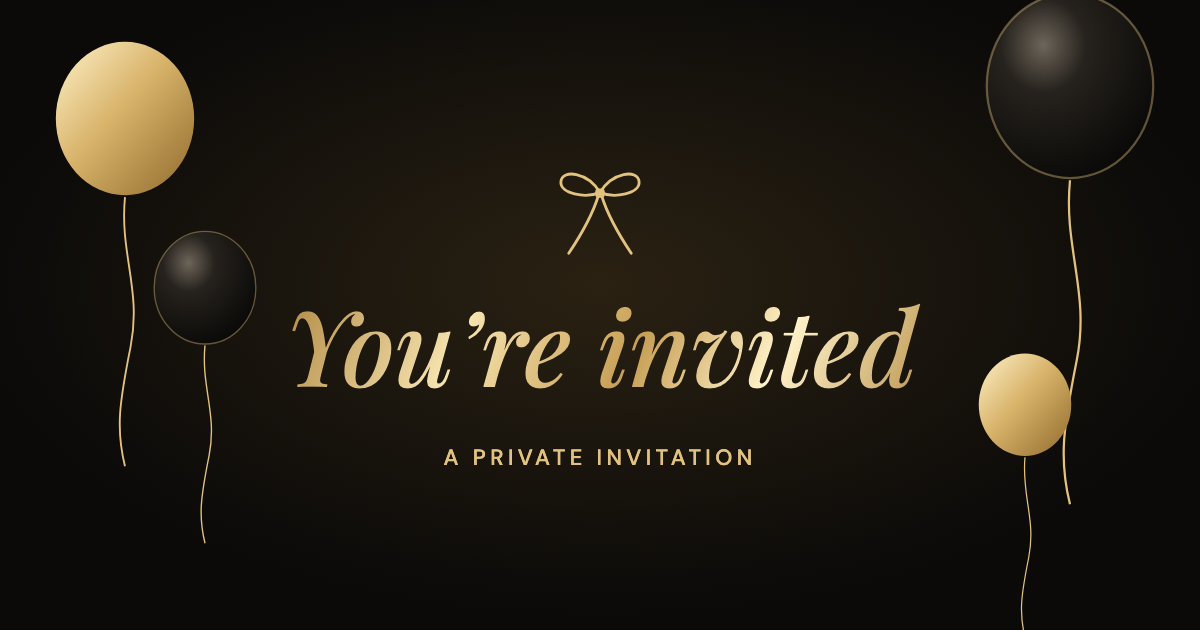
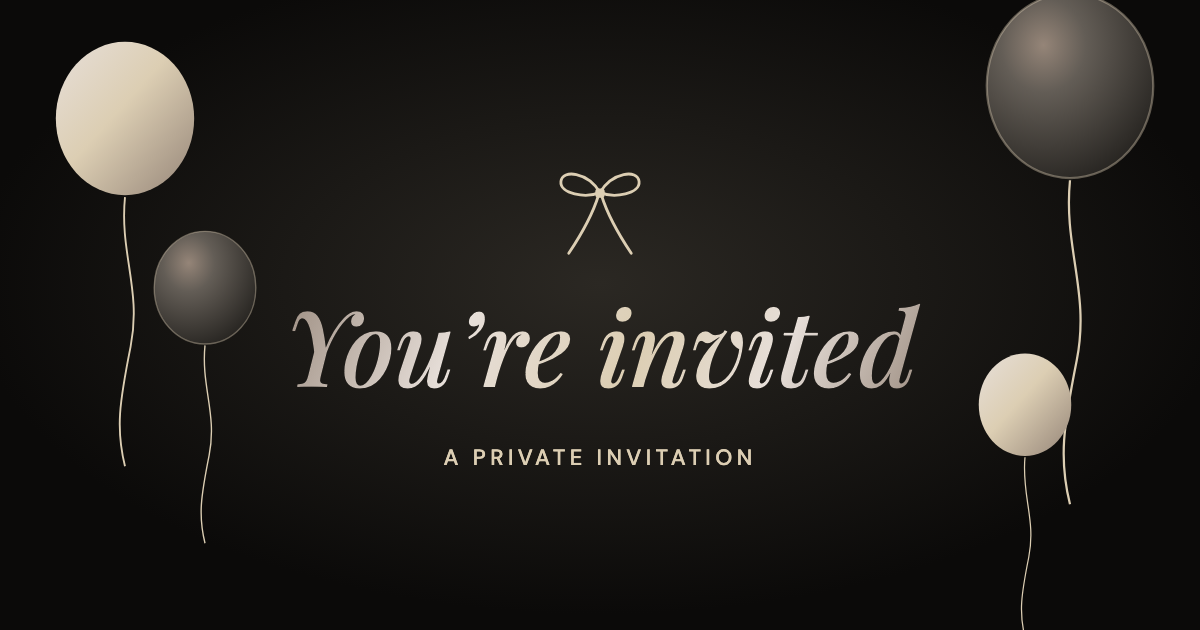
Replace gold with the Quiet Luxury palette

diff --git a/styles.css b/styles.css
@@ -1,14 +1,15 @@
-/* Black tie birthday. To change the palette or typefaces, edit these tokens. */
+/* Quiet Luxury palette on near-black: Roasted Cashew #958578, Frozen Dew #dcceb3,
+   Dark Night #635d56, Temple Grey #cbc3bf, Snowfall #e7dfd9. Edit these tokens to change it. */
 :root{
   --bg:#0b0a09;--paper:#14110d;
-  --ink:#f8f1e1;--text:#eee6d4;--muted:#cfc5b0;
-  --gold:#e2c27f;--gold-foil:linear-gradient(115deg,#a97f38 0%,#f6e3ae 28%,#c79f55 52%,#fff2c9 72%,#b58c44 100%);--line:rgba(226,194,127,.28);
+  --ink:#e7dfd9;--text:#e7dfd9;--muted:#cbc3bf;
+  --accent:#dcceb3;--foil:linear-gradient(115deg,#958578 0%,#e7dfd9 28%,#dcceb3 52%,#e7dfd9 72%,#958578 100%);--line:rgba(220,206,179,.28);
   --danger:#ffa394;
   --sans:'DM Sans',system-ui,-apple-system,sans-serif;
   --display:'Playfair Display',Georgia,'Times New Roman',serif;
 }
 *,*::before,*::after{box-sizing:border-box}
-body{margin:0;min-width:320px;min-height:100vh;min-height:100svh;background:radial-gradient(ellipse 110% 55% at 50% 38%,#241c10 0%,transparent 72%) fixed,var(--bg);color:var(--text);font-family:var(--sans);font-size:17px;font-weight:400;-webkit-font-smoothing:antialiased;text-rendering:optimizeLegibility;overflow-x:hidden}
+body{margin:0;min-width:320px;min-height:100vh;min-height:100svh;background:radial-gradient(ellipse 110% 55% at 50% 38%,#2b2823 0%,transparent 72%) fixed,var(--bg);color:var(--text);font-family:var(--sans);font-size:17px;font-weight:400;-webkit-font-smoothing:antialiased;text-rendering:optimizeLegibility;overflow-x:hidden}
 button,input{font:inherit;color:inherit}
 button{cursor:pointer}
 button:disabled{cursor:wait;opacity:.7}
@@ -26,37 +27,37 @@ a:focus-visible,button:focus-visible{outline:1px solid var(--ink);outline-offset
 .balloon--three{width:88px;bottom:-11%;right:-40px;animation-delay:-5s}
 .balloon--four{width:76px;bottom:-4%;left:-44px;animation-delay:-7s}
 .sparkles{position:fixed;inset:0;z-index:-1;pointer-events:none}
-.sparkles i{position:absolute;width:var(--s);height:var(--s);background:var(--gold);clip-path:polygon(50% 0,58% 42%,100% 50%,58% 58%,50% 100%,42% 58%,0 50%,42% 42%);animation:twinkle 3.6s ease-in-out infinite}
+.sparkles i{position:absolute;width:var(--s);height:var(--s);background:var(--accent);clip-path:polygon(50% 0,58% 42%,100% 50%,58% 58%,50% 100%,42% 58%,0 50%,42% 42%);animation:twinkle 3.6s ease-in-out infinite}
 
 /* Shell */
 .app-shell{max-width:520px;min-height:100vh;min-height:100svh;margin:0 auto;padding:0 28px;display:flex;flex-direction:column}
 .app-header{flex-shrink:0;display:flex;align-items:flex-end;gap:16px;padding-top:calc(14px + env(safe-area-inset-top))}
 .progress-wrap{flex:1;padding-bottom:12px}
-.progress-meta{display:flex;justify-content:space-between;margin-bottom:9px;color:var(--gold);font-size:13px;font-weight:500;letter-spacing:.1em;text-transform:uppercase}
+.progress-meta{display:flex;justify-content:space-between;margin-bottom:9px;color:var(--accent);font-size:13px;font-weight:500;letter-spacing:.1em;text-transform:uppercase}
 .progress-muted,.progress-meta #progressTitle{color:var(--muted)}
 .progress-track{height:1px;background:var(--line)}
-.progress-fill{height:1px;background:var(--gold);box-shadow:0 0 8px rgba(226,194,127,.8);transition:width .7s cubic-bezier(.22,1,.36,1)}
-.music-button{width:44px;height:44px;margin-right:-12px;display:grid;place-items:center;background:none;border:0;color:var(--gold);transition:color .3s}
-.music-button:hover,.music-button[aria-pressed=true]{color:#fff2c9}
+.progress-fill{height:1px;background:var(--accent);box-shadow:0 0 8px rgba(220,206,179,.8);transition:width .7s cubic-bezier(.22,1,.36,1)}
+.music-button{width:44px;height:44px;margin-right:-12px;display:grid;place-items:center;background:none;border:0;color:var(--accent);transition:color .3s}
+.music-button:hover,.music-button[aria-pressed=true]{color:#e7dfd9}
 .music-button[aria-pressed=true] svg{animation:breathe 2.4s ease-in-out infinite}
 main{flex:1;display:flex;flex-direction:column}
 
 /* Screens */
 .screen{flex:1;display:flex;flex-direction:column;align-items:center;text-align:center;padding:30px 0 20px;animation:screenIn .9s cubic-bezier(.2,.7,.2,1) both}
-.eyebrow{margin:0;color:var(--gold);font-size:13px;font-weight:500;letter-spacing:.14em;text-transform:uppercase;line-height:1.7}
+.eyebrow{margin:0;color:var(--accent);font-size:13px;font-weight:500;letter-spacing:.14em;text-transform:uppercase;line-height:1.7}
 .hero-title,.section-title,.final-title,.reveal-headline{font-family:var(--display);color:var(--ink);font-weight:500}
 .hero-title em,.section-title em,.final-title em,.reveal-headline em{display:block;font-weight:500}
 .hero-title{font-size:clamp(35px,9.6vw,50px);line-height:1.16;margin:20px 0 0;text-wrap:balance}
 
 /* Envelope */
 .envelope-scene{flex:1;width:100%;min-height:270px;display:grid;place-items:center;perspective:1000px}
-.envelope{width:256px;height:168px;position:relative;margin-top:44px;filter:drop-shadow(0 0 34px rgba(226,194,127,.32));animation:envelopeFloat 6s ease-in-out infinite}
-.envelope-back{position:absolute;inset:0;background:var(--gold-foil)}
-.envelope-letter{position:absolute;z-index:2;top:8px;left:12px;right:12px;height:150px;background:#fffaf0;padding-top:20px;color:#141210;transition:transform 1s .25s cubic-bezier(.2,.7,.2,1)}
+.envelope{width:256px;height:168px;position:relative;margin-top:44px;filter:drop-shadow(0 0 34px rgba(220,206,179,.32));animation:envelopeFloat 6s ease-in-out infinite}
+.envelope-back{position:absolute;inset:0;background:var(--foil)}
+.envelope-letter{position:absolute;z-index:2;top:8px;left:12px;right:12px;height:150px;background:#efe9e3;padding-top:20px;color:#141210;transition:transform 1s .25s cubic-bezier(.2,.7,.2,1)}
 .envelope-letter span{font-family:var(--display);font-style:italic;font-weight:500;font-size:20px}
-.envelope-front{position:absolute;inset:0;z-index:4;background:linear-gradient(170deg,#f8f1e1,#e8dcc2);clip-path:polygon(0 0,50% 56%,100% 0,100% 100%,0 100%)}
-.envelope-front::after{content:'';position:absolute;inset:0;background:linear-gradient(0deg,#fbf6ea,#efe5cf);clip-path:polygon(0 100%,50% 46%,100% 100%)}
-.envelope-flap{position:absolute;inset:0;z-index:6;background:linear-gradient(180deg,#fffaf0,#eadfc6);filter:drop-shadow(0 2px 2px rgba(90,64,20,.35));clip-path:polygon(0 0,100% 0,50% 62%);transform-origin:50% 0;transition:transform .8s ease}
+.envelope-front{position:absolute;inset:0;z-index:4;background:linear-gradient(170deg,#e7dfd9,#cbc3bf);clip-path:polygon(0 0,50% 56%,100% 0,100% 100%,0 100%)}
+.envelope-front::after{content:'';position:absolute;inset:0;background:linear-gradient(0deg,#efe9e3,#e7dfd9);clip-path:polygon(0 100%,50% 46%,100% 100%)}
+.envelope-flap{position:absolute;inset:0;z-index:6;background:linear-gradient(180deg,#efe9e3,#cbc3bf);filter:drop-shadow(0 2px 2px rgba(99,93,86,.4));clip-path:polygon(0 0,100% 0,50% 62%);transform-origin:50% 0;transition:transform .8s ease}
 .wax-seal{position:absolute;z-index:7;left:calc(50% - 39px);top:64px;width:78px;height:78px;color:#141210;transition:opacity .35s}
 .envelope-scene.is-opening .envelope{animation:none}
 .envelope-scene.is-opening .envelope-flap{transform:rotateX(180deg);z-index:1}
@@ -65,23 +66,23 @@ main{flex:1;display:flex;flex-direction:column}
 
 /* Buttons */
 .button{display:inline-flex;align-items:center;justify-content:center;gap:12px;min-height:54px;width:100%;max-width:320px;padding:16px 26px;border-radius:0;font-size:15px;font-weight:600;letter-spacing:.1em;text-transform:uppercase;text-decoration:none;line-height:1.3;transition:background .35s,color .35s}
-.button--primary{color:#141210;background:var(--gold-foil);background-size:220% 100%;border:0;animation:foilShift 7s ease-in-out infinite alternate;box-shadow:0 0 24px rgba(226,194,127,.28)}
-.button--primary:hover:not(:disabled){box-shadow:0 0 34px rgba(226,194,127,.55)}
-.text-link{display:inline-flex;align-items:center;min-height:44px;margin-top:6px;font-size:16px;color:var(--gold);text-decoration:underline;text-decoration-thickness:1px;text-underline-offset:5px}
+.button--primary{color:#141210;background:var(--foil);background-size:220% 100%;border:0;animation:foilShift 7s ease-in-out infinite alternate;box-shadow:0 0 24px rgba(220,206,179,.28)}
+.button--primary:hover:not(:disabled){box-shadow:0 0 34px rgba(220,206,179,.55)}
+.text-link{display:inline-flex;align-items:center;min-height:44px;margin-top:6px;font-size:16px;color:var(--accent);text-decoration:underline;text-decoration-thickness:1px;text-underline-offset:5px}
 
 /* Reveal */
 .reveal-art{position:relative;margin-top:4px}
-.art-bow{width:48px;height:48px;margin:0 auto 2px;color:var(--gold);animation:fadeIn 1.2s .7s both}
-.age-numeral{display:block;font-family:var(--display);font-style:italic;font-size:clamp(120px,36vw,170px);font-weight:500;line-height:1.08;color:transparent;background:var(--gold-foil);background-size:220% 100%;-webkit-background-clip:text;background-clip:text;font-variant-numeric:lining-nums;filter:drop-shadow(0 0 20px rgba(226,194,127,.38));animation:numeralIn 1.4s cubic-bezier(.2,.7,.2,1) both,foilShift 6s ease-in-out infinite alternate}
-.glint{position:absolute;width:var(--s);height:var(--s);background:#fff2c9;clip-path:polygon(50% 0,58% 42%,100% 50%,58% 58%,50% 100%,42% 58%,0 50%,42% 42%);animation:twinkle 2.4s ease-in-out infinite}
-.photo-frame{margin:0;width:186px;height:232px;padding:2px;border-radius:93px 93px 6px 6px;background:var(--gold-foil);box-shadow:0 0 34px rgba(226,194,127,.35);animation:numeralIn 1.2s cubic-bezier(.2,.7,.2,1) both}
+.art-bow{width:48px;height:48px;margin:0 auto 2px;color:var(--accent);animation:fadeIn 1.2s .7s both}
+.age-numeral{display:block;font-family:var(--display);font-style:italic;font-size:clamp(120px,36vw,170px);font-weight:500;line-height:1.08;color:transparent;background:var(--foil);background-size:220% 100%;-webkit-background-clip:text;background-clip:text;font-variant-numeric:lining-nums;filter:drop-shadow(0 0 20px rgba(220,206,179,.38));animation:numeralIn 1.4s cubic-bezier(.2,.7,.2,1) both,foilShift 6s ease-in-out infinite alternate}
+.glint{position:absolute;width:var(--s);height:var(--s);background:#e7dfd9;clip-path:polygon(50% 0,58% 42%,100% 50%,58% 58%,50% 100%,42% 58%,0 50%,42% 42%);animation:twinkle 2.4s ease-in-out infinite}
+.photo-frame{margin:0;width:186px;height:232px;padding:2px;border-radius:93px 93px 6px 6px;background:var(--foil);box-shadow:0 0 34px rgba(220,206,179,.35);animation:numeralIn 1.2s cubic-bezier(.2,.7,.2,1) both}
 .photo-frame img{display:block;width:100%;height:100%;object-fit:cover;object-position:50% 10%;border-radius:91px 91px 4px 4px}
 .reveal-art.has-photo{margin:22px 0 14px}
 .reveal-art.has-photo .art-bow{position:absolute;top:-30px;left:50%;margin-left:-24px;z-index:1}
 .reveal-art.has-photo .age-numeral{position:absolute;right:-50px;bottom:-24px;font-size:92px;filter:drop-shadow(0 2px 10px rgba(0,0,0,.9))}
 .reveal-headline{font-size:clamp(30px,8.4vw,42px);line-height:1.15;margin:12px 0 22px}
 .reveal-headline em{display:inline}
-#revealName{display:block;font-size:17px;letter-spacing:.34em;margin-right:-.34em;color:var(--gold);font-weight:600;animation:nameIn 1.8s .4s cubic-bezier(.2,.7,.2,1) both}
+#revealName{display:block;font-size:17px;letter-spacing:.34em;margin-right:-.34em;color:var(--accent);font-weight:600;animation:nameIn 1.8s .4s cubic-bezier(.2,.7,.2,1) both}
 .reveal-description{margin:24px 0 8px;color:var(--ink);font-weight:500}
 .reveal-invitation{color:var(--muted);line-height:1.6;max-width:340px;margin:0 0 30px}
 .screen--reveal .button,.screen--details .button{margin-top:auto}
@@ -91,18 +92,18 @@ main{flex:1;display:flex;flex-direction:column}
 .section-title--small{font-style:normal;font-size:clamp(32px,8.8vw,44px);line-height:1.18;margin:18px 0 26px}
 .event-subtitle{margin:0;color:var(--ink)}
 .section-intro{margin:3px 0 0;color:var(--muted)}
-.details-card{width:100%;margin-top:26px;border-top:1px solid var(--gold)}
+.details-card{width:100%;margin-top:26px;border-top:1px solid var(--accent)}
 .detail-row{display:flex;flex-direction:column;align-items:center;gap:2px;padding:17px 0;border-bottom:1px solid var(--line)}
-.detail-row:last-child{border-bottom:1px solid var(--gold)}
-.detail-label{margin-bottom:5px;font-size:13px;font-weight:500;letter-spacing:.12em;text-transform:uppercase;color:var(--gold)}
+.detail-row:last-child{border-bottom:1px solid var(--accent)}
+.detail-label{margin-bottom:5px;font-size:13px;font-weight:500;letter-spacing:.12em;text-transform:uppercase;color:var(--accent)}
 .detail-row strong{font-weight:600;font-size:19px;line-height:1.35;color:var(--ink)}
 .detail-row>span:not(.detail-label){color:var(--muted);font-size:17px}
-.maps-link{display:inline-flex;align-items:center;min-height:44px;margin-bottom:-12px;font-size:16px;color:var(--gold);text-decoration:underline;text-decoration-thickness:1px;text-underline-offset:5px}
+.maps-link{display:inline-flex;align-items:center;min-height:44px;margin-bottom:-12px;font-size:16px;color:var(--accent);text-decoration:underline;text-decoration-thickness:1px;text-underline-offset:5px}
 .countdown-block{width:100%;padding:24px 0 26px}
 .countdown{display:flex;justify-content:center}
 .countdown>div{flex:1;max-width:76px;display:flex;flex-direction:column;gap:3px;align-items:center}
 .countdown>div+div{border-left:1px solid var(--line)}
-.countdown strong{font-family:var(--sans);font-weight:500;font-size:28px;color:var(--gold);font-variant-numeric:lining-nums tabular-nums;line-height:1.2}
+.countdown strong{font-family:var(--sans);font-weight:500;font-size:28px;color:var(--accent);font-variant-numeric:lining-nums tabular-nums;line-height:1.2}
 .countdown small{margin-top:2px;font-size:12px;font-weight:500;letter-spacing:.08em;text-transform:uppercase;color:var(--muted)}
 .countdown-status{font-size:16px;color:var(--ink);margin:10px 0 0}
 .countdown-status:empty{display:none}
@@ -110,19 +111,19 @@ main{flex:1;display:flex;flex-direction:column}
 /* RSVP */
 .rsvp-form,.code-form{width:100%;display:flex;flex-direction:column;align-items:center;text-align:left}
 .code-form .button{margin-top:20px}
-.field-label{align-self:flex-start;font-size:13px;font-weight:500;letter-spacing:.12em;text-transform:uppercase;color:var(--gold)}
-.rsvp-form>input[type=text],.code-form input{width:100%;height:46px;padding:0;border:0;border-bottom:1px solid var(--gold);border-radius:0;background:transparent;color:var(--ink);font-family:var(--sans);font-size:19px;outline:none;transition:box-shadow .2s}
+.field-label{align-self:flex-start;font-size:13px;font-weight:500;letter-spacing:.12em;text-transform:uppercase;color:var(--accent)}
+.rsvp-form>input[type=text],.code-form input{width:100%;height:46px;padding:0;border:0;border-bottom:1px solid var(--accent);border-radius:0;background:transparent;color:var(--ink);font-family:var(--sans);font-size:19px;outline:none;transition:box-shadow .2s}
 .rsvp-form>input[type=text]:focus,.code-form input:focus{box-shadow:0 1px 0 var(--ink)}
 .rsvp-choices{width:100%;margin:28px 0 0;border:0;padding:0;min-width:0;display:grid;gap:10px}
-.choice-card{position:relative;display:flex;align-items:center;justify-content:center;min-height:56px;padding:12px;border:1px solid var(--gold);cursor:pointer;text-align:center;transition:background .3s,color .3s}
-.choice-card:has(input:checked){background:var(--gold-foil);color:#141210;border-color:transparent;box-shadow:0 0 24px rgba(226,194,127,.3)}
+.choice-card{position:relative;display:flex;align-items:center;justify-content:center;min-height:56px;padding:12px;border:1px solid var(--accent);cursor:pointer;text-align:center;transition:background .3s,color .3s}
+.choice-card:has(input:checked){background:var(--foil);color:#141210;border-color:transparent;box-shadow:0 0 24px rgba(220,206,179,.3)}
 .choice-card:has(input:focus-visible){outline:1px solid var(--ink);outline-offset:3px}
 .choice-card input{position:absolute;opacity:0;width:1px;height:1px}
 .choice-text{font-size:17px;font-weight:500}
 .plus-one{align-self:stretch;position:relative;display:flex;align-items:center;justify-content:center;gap:12px;min-height:48px;margin-top:10px;cursor:pointer;font-size:17px}
 .plus-one input{position:absolute;opacity:0;width:1px;height:1px}
-.check-box{width:18px;height:18px;border:1px solid var(--gold);display:grid;place-items:center;transition:background .2s}
-.plus-one input:checked + .check-box{background:var(--gold)}
+.check-box{width:18px;height:18px;border:1px solid var(--accent);display:grid;place-items:center;transition:background .2s}
+.plus-one input:checked + .check-box{background:var(--accent)}
 .plus-one input:checked + .check-box::after{content:'';width:5px;height:9px;margin-top:-2px;border:solid var(--paper);border-width:0 1.5px 1.5px 0;transform:rotate(45deg)}
 .plus-one input:focus-visible + .check-box{outline:1px solid var(--ink);outline-offset:3px}
 .honeypot{position:absolute!important;left:-10000px!important;width:1px!important;height:1px!important;overflow:hidden!important}
@@ -133,15 +134,15 @@ main{flex:1;display:flex;flex-direction:column}
 
 /* Finale */
 .cake-button{display:block;padding:0;background:none;border:0}
-.cake-svg{display:block;width:230px;max-width:62vw;height:auto;filter:drop-shadow(0 0 26px rgba(226,194,127,.22))}
+.cake-svg{display:block;width:230px;max-width:62vw;height:auto;filter:drop-shadow(0 0 26px rgba(220,206,179,.22))}
 .cake-flame{transform-box:fill-box;transform-origin:50% 100%;animation:flicker 1.6s ease-in-out infinite alternate;transition:opacity .35s}
 .cake-flame:nth-of-type(2n){animation-delay:-.7s}
 .cake-halo{transition:opacity .5s;animation:breathe 2.6s ease-in-out infinite}
 .cake-button.is-out .cake-flame,.cake-button.is-out .cake-halo{opacity:0;animation:none}
-.cake-hint{min-height:22px;margin:8px 0 18px;color:var(--gold);font-size:15px}
+.cake-hint{min-height:22px;margin:8px 0 18px;color:var(--accent);font-size:15px}
 .final-title{font-size:clamp(33px,9.2vw,46px);line-height:1.16;margin:14px 0 14px}
 .final-title em{display:inline}
-.heart{font-size:.42em;vertical-align:.32em;font-style:normal;color:var(--gold)}
+.heart{font-size:.42em;vertical-align:.32em;font-style:normal;color:var(--accent)}
 .final-description{text-wrap:balance;color:var(--ink);font-weight:500;line-height:1.5;margin:0 0 4px}
 .final-note{color:var(--muted);margin:0 0 26px}
 .screen--final .button{margin-top:auto}

diff --git a/index.html b/index.html
@@ -19,24 +19,24 @@
   <link rel="preconnect" href="https://fonts.googleapis.com" />
   <link rel="preconnect" href="https://fonts.gstatic.com" crossorigin />
   <link href="https://fonts.googleapis.com/css2?family=DM+Sans:wght@400;500;600&family=Playfair+Display:ital,wght@0,500;1,500&display=swap" rel="stylesheet" />
-  <link rel="stylesheet" href="styles.css?v=8" />
+  <link rel="stylesheet" href="styles.css?v=9" />
   <script src="config.js" defer></script>
-  <script src="app.js?v=7" defer></script>
+  <script src="app.js?v=9" defer></script>
   <title>You're Invited ✨</title>
 </head>
 <body>
   <svg width="0" height="0" style="position:absolute" aria-hidden="true" focusable="false"><defs>
     <symbol id="bow" viewBox="0 0 64 64"><g fill="none" stroke="currentColor" stroke-width="2.2" stroke-linecap="round" stroke-linejoin="round"><path d="M32 22C24 9 8 7 7 15s16 11 25 7M32 22C40 9 56 7 57 15S41 26 32 22M31 24C27 37 20 49 12 61M33 24C37 37 44 49 52 61"/></g><rect x="29" y="19.5" width="6" height="6" rx="2" fill="currentColor"/></symbol>
-    <linearGradient id="foilGold" x1="0" y1="0" x2="1" y2="1"><stop offset="0" stop-color="#fff2c9"/><stop offset=".45" stop-color="#d8b36a"/><stop offset="1" stop-color="#8f6a2c"/></linearGradient>
-    <radialGradient id="foilBlack" cx=".34" cy=".28" r=".85"><stop offset="0" stop-color="#6d655a"/><stop offset=".3" stop-color="#26221d"/><stop offset="1" stop-color="#050504"/></radialGradient>
-    <symbol id="balloonGold" viewBox="0 0 80 230"><path d="M40 84c-3 30 9 50 3 80s-8 44-3 64" fill="none" stroke="#e2c27f" stroke-width="1"/><ellipse cx="40" cy="42" rx="37" ry="41" fill="url(#foilGold)"/><ellipse cx="27" cy="25" rx="7" ry="12" fill="#fff" opacity=".4" transform="rotate(24 27 25)"/><path d="M40 83l-5 6h10z" fill="#8f6a2c"/></symbol>
-    <symbol id="balloonBlack" viewBox="0 0 80 230"><path d="M40 84c-3 30 9 50 3 80s-8 44-3 64" fill="none" stroke="#e2c27f" stroke-width="1"/><ellipse cx="40" cy="42" rx="37" ry="41" fill="url(#foilBlack)" stroke="#e2c27f" stroke-opacity=".35"/><ellipse cx="27" cy="25" rx="6" ry="11" fill="#fff" opacity=".28" transform="rotate(24 27 25)"/><path d="M40 83l-5 6h10z" fill="#26221d"/></symbol>
+    <linearGradient id="foilLight" x1="0" y1="0" x2="1" y2="1"><stop offset="0" stop-color="#e7dfd9"/><stop offset=".45" stop-color="#dcceb3"/><stop offset="1" stop-color="#958578"/></linearGradient>
+    <radialGradient id="foilDark" cx=".34" cy=".28" r=".85"><stop offset="0" stop-color="#958578"/><stop offset=".3" stop-color="#635d56"/><stop offset="1" stop-color="#1f1d1a"/></radialGradient>
+    <symbol id="balloonLight" viewBox="0 0 80 230"><path d="M40 84c-3 30 9 50 3 80s-8 44-3 64" fill="none" stroke="#dcceb3" stroke-width="1"/><ellipse cx="40" cy="42" rx="37" ry="41" fill="url(#foilLight)"/><ellipse cx="27" cy="25" rx="7" ry="12" fill="#fff" opacity=".4" transform="rotate(24 27 25)"/><path d="M40 83l-5 6h10z" fill="#958578"/></symbol>
+    <symbol id="balloonDark" viewBox="0 0 80 230"><path d="M40 84c-3 30 9 50 3 80s-8 44-3 64" fill="none" stroke="#dcceb3" stroke-width="1"/><ellipse cx="40" cy="42" rx="37" ry="41" fill="url(#foilDark)" stroke="#dcceb3" stroke-opacity=".35"/><ellipse cx="27" cy="25" rx="6" ry="11" fill="#fff" opacity=".28" transform="rotate(24 27 25)"/><path d="M40 83l-5 6h10z" fill="#635d56"/></symbol>
   </defs></svg>
   <div class="sparkles" aria-hidden="true"><i style="left:6%;top:8%;--s:12px;animation-delay:-2.2s"></i><i style="left:92%;top:14%;--s:10px;animation-delay:-3.5s"></i><i style="left:14%;top:30%;--s:8px;animation-delay:-1.4s"></i><i style="left:88%;top:34%;--s:10px;animation-delay:-3.6s"></i><i style="left:5%;top:52%;--s:15px;animation-delay:-0.0s"></i><i style="left:95%;top:56%;--s:10px;animation-delay:-0.1s"></i><i style="left:10%;top:74%;--s:10px;animation-delay:-3.3s"></i><i style="left:90%;top:78%;--s:15px;animation-delay:-3.5s"></i><i style="left:50%;top:4%;--s:12px;animation-delay:-1.9s"></i><i style="left:30%;top:96%;--s:8px;animation-delay:-1.4s"></i><i style="left:70%;top:94%;--s:10px;animation-delay:-2.9s"></i><i style="left:3%;top:90%;--s:12px;animation-delay:-2.7s"></i><i style="left:97%;top:92%;--s:8px;animation-delay:-2.4s"></i><i style="left:22%;top:14%;--s:8px;animation-delay:-2.2s"></i><i style="left:78%;top:6%;--s:12px;animation-delay:-0.5s"></i></div>
-  <svg class="balloon balloon--one" viewBox="0 0 80 230" aria-hidden="true"><use href="#balloonGold"/></svg>
-  <svg class="balloon balloon--two" viewBox="0 0 80 230" aria-hidden="true"><use href="#balloonBlack"/></svg>
-  <svg class="balloon balloon--three" viewBox="0 0 80 230" aria-hidden="true"><use href="#balloonGold"/></svg>
-  <svg class="balloon balloon--four" viewBox="0 0 80 230" aria-hidden="true"><use href="#balloonBlack"/></svg>
+  <svg class="balloon balloon--one" viewBox="0 0 80 230" aria-hidden="true"><use href="#balloonLight"/></svg>
+  <svg class="balloon balloon--two" viewBox="0 0 80 230" aria-hidden="true"><use href="#balloonDark"/></svg>
+  <svg class="balloon balloon--three" viewBox="0 0 80 230" aria-hidden="true"><use href="#balloonLight"/></svg>
+  <svg class="balloon balloon--four" viewBox="0 0 80 230" aria-hidden="true"><use href="#balloonDark"/></svg>
   <canvas id="confettiCanvas" class="confetti-canvas" aria-hidden="true"></canvas>
 
   <div id="app" class="app-shell">
@@ -55,7 +55,7 @@
       <section id="screen-welcome" class="screen screen--welcome" aria-labelledby="welcomeTitle">
         <p class="eyebrow">A private invitation</p>
         <h1 id="welcomeTitle" class="hero-title">You’ve been invited to <em>something special…</em></h1>
-        <div id="envelopeScene" class="envelope-scene" role="img" aria-label="An ivory envelope with a gold lining, tied with a black bow">
+        <div id="envelopeScene" class="envelope-scene" role="img" aria-label="An ivory envelope with a soft taupe lining, tied with a black bow">
           <div class="envelope">
             <div class="envelope-back"></div>
             <div class="envelope-letter"><span>You’re invited</span></div>
@@ -123,15 +123,15 @@
       <section id="screen-final" class="screen screen--final" aria-labelledby="finalTitle" hidden>
         <button id="cakeButton" class="cake-button" type="button" aria-label="Blow out the candles on the birthday cake">
           <svg class="cake-svg" viewBox="0 0 260 244" aria-hidden="true"><defs>
-            <linearGradient id="cakeIvory" x1="0" x2="1"><stop offset="0" stop-color="#e3d6ba"/><stop offset=".35" stop-color="#fffaf0"/><stop offset="1" stop-color="#d8c9a8"/></linearGradient>
-            <linearGradient id="cakeGoldFill" x1="0" x2="1"><stop offset="0" stop-color="#a97f38"/><stop offset=".4" stop-color="#fff2c9"/><stop offset="1" stop-color="#b58c44"/></linearGradient>
-            <radialGradient id="cakeGlow"><stop offset="0" stop-color="#ffd978" stop-opacity=".75"/><stop offset="1" stop-color="#ffd978" stop-opacity="0"/></radialGradient></defs>
-          <ellipse cx="130" cy="218" rx="118" ry="17" fill="url(#cakeGoldFill)"/><ellipse cx="130" cy="214" rx="108" ry="13" fill="#17130d"/>
-          <path d="M38 134v74c0 18 184 18 184 0v-74z" fill="url(#cakeIvory)"/><ellipse cx="130" cy="134" rx="92" ry="16" fill="#fffaf0"/>
-          <path d="M38 131V136c0 14 23.0 14 23.0 0c0 26 23.0 26 23.0 0c0 10 23.0 10 23.0 0c0 30 23.0 30 23.0 0c0 14 23.0 14 23.0 0c0 24 23.0 24 23.0 0c0 10 23.0 10 23.0 0c0 28 23.0 28 23.0 0V131z" fill="url(#cakeGoldFill)"/>
-          <path d="M70 82v54c0 14 120 14 120 0V82z" fill="url(#cakeIvory)"/><ellipse cx="130" cy="82" rx="60" ry="11" fill="#fffaf0"/>
-          <path d="M70 79V84c0 10 20.0 10 20.0 0c0 20 20.0 20 20.0 0c0 8 20.0 8 20.0 0c0 22 20.0 22 20.0 0c0 10 20.0 10 20.0 0c0 18 20.0 18 20.0 0V79z" fill="url(#cakeGoldFill)"/>
-          <circle class="cake-halo" cx="103" cy="34" r="17" fill="url(#cakeGlow)"/><rect x="100" y="44" width="6" height="38" rx="1.5" fill="url(#cakeGoldFill)"/><path class="cake-flame" d="M103 42c-6-7-1-14 0-17 2 5 6 10 0 17z" fill="#ffd978"/><circle class="cake-halo" cx="130" cy="22" r="17" fill="url(#cakeGlow)"/><rect x="127" y="32" width="6" height="50" rx="1.5" fill="url(#cakeGoldFill)"/><path class="cake-flame" d="M130 30c-6-7-1-14 0-17 2 5 6 10 0 17z" fill="#ffd978"/><circle class="cake-halo" cx="157" cy="34" r="17" fill="url(#cakeGlow)"/><rect x="154" y="44" width="6" height="38" rx="1.5" fill="url(#cakeGoldFill)"/><path class="cake-flame" d="M157 42c-6-7-1-14 0-17 2 5 6 10 0 17z" fill="#ffd978"/>
+            <linearGradient id="cakeIvory" x1="0" x2="1"><stop offset="0" stop-color="#cbc3bf"/><stop offset=".35" stop-color="#efe9e3"/><stop offset="1" stop-color="#cbc3bf"/></linearGradient>
+            <linearGradient id="cakeTrim" x1="0" x2="1"><stop offset="0" stop-color="#958578"/><stop offset=".4" stop-color="#e7dfd9"/><stop offset="1" stop-color="#958578"/></linearGradient>
+            <radialGradient id="cakeGlow"><stop offset="0" stop-color="#dcceb3" stop-opacity=".75"/><stop offset="1" stop-color="#dcceb3" stop-opacity="0"/></radialGradient></defs>
+          <ellipse cx="130" cy="218" rx="118" ry="17" fill="url(#cakeTrim)"/><ellipse cx="130" cy="214" rx="108" ry="13" fill="#1a1816"/>
+          <path d="M38 134v74c0 18 184 18 184 0v-74z" fill="url(#cakeIvory)"/><ellipse cx="130" cy="134" rx="92" ry="16" fill="#efe9e3"/>
+          <path d="M38 131V136c0 14 23.0 14 23.0 0c0 26 23.0 26 23.0 0c0 10 23.0 10 23.0 0c0 30 23.0 30 23.0 0c0 14 23.0 14 23.0 0c0 24 23.0 24 23.0 0c0 10 23.0 10 23.0 0c0 28 23.0 28 23.0 0V131z" fill="url(#cakeTrim)"/>
+          <path d="M70 82v54c0 14 120 14 120 0V82z" fill="url(#cakeIvory)"/><ellipse cx="130" cy="82" rx="60" ry="11" fill="#efe9e3"/>
+          <path d="M70 79V84c0 10 20.0 10 20.0 0c0 20 20.0 20 20.0 0c0 8 20.0 8 20.0 0c0 22 20.0 22 20.0 0c0 10 20.0 10 20.0 0c0 18 20.0 18 20.0 0V79z" fill="url(#cakeTrim)"/>
+          <circle class="cake-halo" cx="103" cy="34" r="17" fill="url(#cakeGlow)"/><rect x="100" y="44" width="6" height="38" rx="1.5" fill="url(#cakeTrim)"/><path class="cake-flame" d="M103 42c-6-7-1-14 0-17 2 5 6 10 0 17z" fill="#dcceb3"/><circle class="cake-halo" cx="130" cy="22" r="17" fill="url(#cakeGlow)"/><rect x="127" y="32" width="6" height="50" rx="1.5" fill="url(#cakeTrim)"/><path class="cake-flame" d="M130 30c-6-7-1-14 0-17 2 5 6 10 0 17z" fill="#dcceb3"/><circle class="cake-halo" cx="157" cy="34" r="17" fill="url(#cakeGlow)"/><rect x="154" y="44" width="6" height="38" rx="1.5" fill="url(#cakeTrim)"/><path class="cake-flame" d="M157 42c-6-7-1-14 0-17 2 5 6 10 0 17z" fill="#dcceb3"/>
           <text id="cakeAge" x="130" y="192" text-anchor="middle" font-family="'Playfair Display', Georgia, serif" font-style="italic" font-weight="500" font-size="30" fill="#141210"></text>
           <use href="#bow" x="110" y="104" width="40" height="40" color="#141210"/></svg>
         </button>

diff --git a/app.js b/app.js
@@ -166,7 +166,7 @@
     const w = window.innerWidth; const h = window.innerHeight;
     canvas.width = Math.round(w * scale); canvas.height = Math.round(h * scale);
     ctx.setTransform(scale, 0, 0, scale, 0, 0);
-    const palette = ['#e2c27f', '#fff2c9', '#c79f55', '#f6e3ae', '#fffaf0'];
+    const palette = ['#dcceb3', '#e7dfd9', '#cbc3bf', '#958578', '#635d56'];
     const pieces = Array.from({ length: count }, () => ({
       x: Math.random() * w, y: -30 - Math.random() * h * 0.65,
       dx: (Math.random() - .5) * 2.5, dy: 1.4 + Math.random() * 3.7,

diff --git a/README.md b/README.md
@@ -6,7 +6,7 @@ Party details and the guest list **do not live in this public repo**. They stay 
 
 ## How it works
 
-1. **Welcome:** ivory envelope with a gold lining and black bow. Opens on tap.
+1. **Welcome:** ivory envelope with a soft taupe lining and black bow. Opens on tap.
 2. **Reveal:** birthday announcement with confetti and a personalized greeting.
 3. **Details:** date, location, dress code, theme, live countdown, and Google Maps link.
 4. **RSVP:** name, attending or declining, optional guest.
